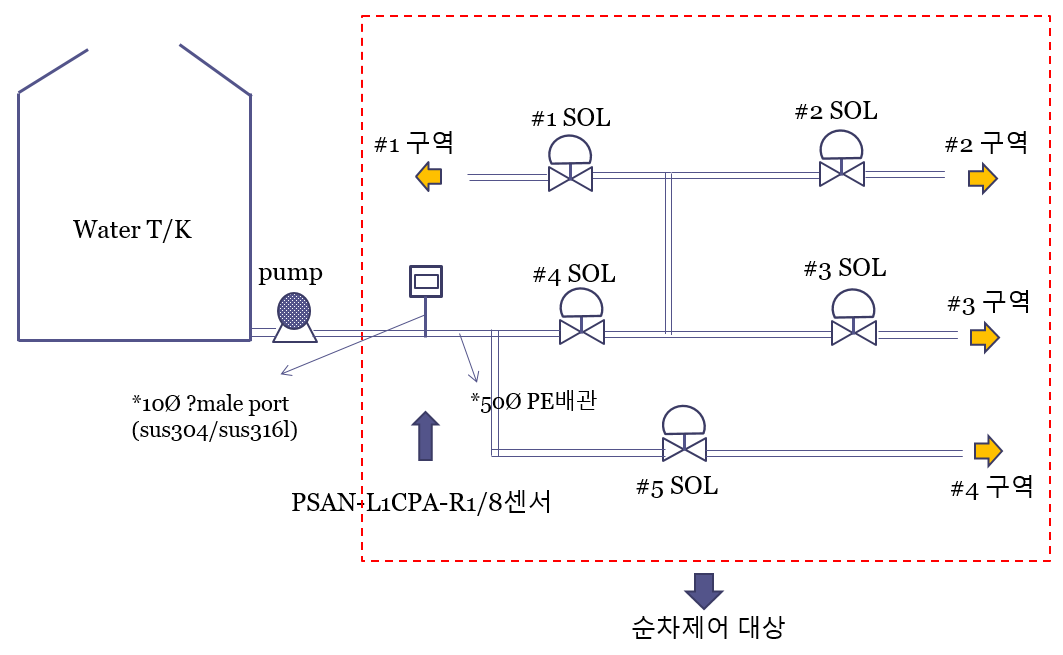
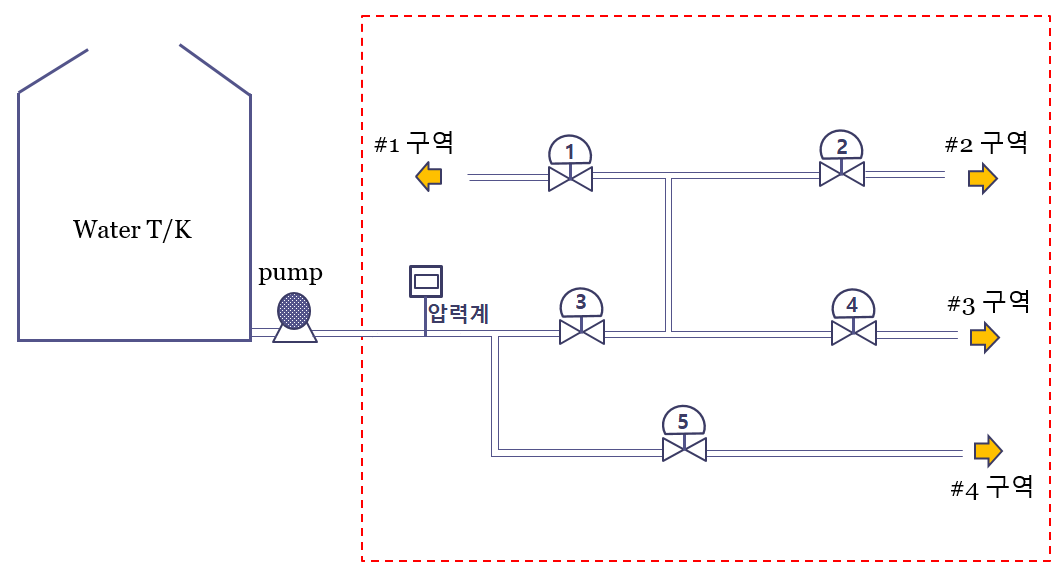
fix: 배경 그림 파일 변경
1. 배경 그림파일 변경
2. 창 가운데로 오게 수정

diff --git a/src/main.py b/src/main.py
@@ -3,7 +3,7 @@ import datetime
 import threading
 import copy
 from functools import partial
-from PyQt5.QtWidgets import QApplication, QMainWindow, QPushButton, QLabel,QSpinBox, QComboBox, QStackedWidget, QVBoxLayout, QHBoxLayout, QWidget, QScrollArea, QMessageBox
+from PyQt5.QtWidgets import QApplication, QMainWindow, QPushButton, QLabel,QSpinBox, QComboBox, QStackedWidget, QVBoxLayout, QHBoxLayout, QWidget, QScrollArea, QMessageBox, QDesktopWidget
 from PyQt5.QtGui import *
 from PyQt5.QtCore import Qt, QObject, pyqtSlot, pyqtSignal, QThread
 from PyQt5 import QtCore
@@ -111,6 +111,12 @@ class MainWindow(QMainWindow):
         
         Log.d(self.TAG, ">> ".format(self.taskQueue))
 
+    def moveToCenter(self):
+        qr = self.frameGeometry()
+        cp = QDesktopWidget().availableGeometry().center()
+        qr.moveCenter(cp)
+        self.move(qr.topLeft())
+
     # UI 초기화
     def initUI(self):
         """UI 초기화
@@ -167,7 +173,7 @@ class MainWindow(QMainWindow):
         # 배경
         self.lblBg = QLabel("", self.autoPage)
         self.lblBg.move(0, 15)
-        self.lblBg.resize(600, 400)
+        self.lblBg.resize(600, 350)
         self.pixmap = QPixmap()
         self.pixmap.load(self.oImg["bg"])
         self.pixmapVar = self.pixmap.scaledToWidth(600)
@@ -190,7 +196,7 @@ class MainWindow(QMainWindow):
             {"no":7, "o":None, "title":"7", "x":495, "y":215, "w":45,"h":5},
             {"no":8, "o":None, "title":"8", "x":277, "y":220, "w":5,"h":68},
             {"no":9, "o":None, "title":"9", "x":277, "y":283, "w":75,"h":5},
-            {"no":10, "o":None, "title":"10", "x":400, "y":285, "w":145,"h":5}
+            {"no":10, "o":None, "title":"10", "x":400, "y":283, "w":145,"h":5}
         ]
         
         for lblLine in self.lineList:
@@ -234,11 +240,11 @@ class MainWindow(QMainWindow):
 
         # 활성화/비활성화 버튼
         self.btnEnableList = [
-            {"no":1, "o":None, "title":"비활성화", "isEnable":False, "x":25, "y":420, "w":75,"h":20},
-            {"no":2, "o":None, "title":"비활성화", "isEnable":False, "x":125, "y":420, "w":75,"h":20},
-            {"no":3, "o":None, "title":"비활성화", "isEnable":False, "x":225, "y":420, "w":75,"h":20},
-            {"no":4, "o":None, "title":"비활성화", "isEnable":False, "x":325, "y":420, "w":75,"h":20},
-            {"no":5, "o":None, "title":"비활성화", "isEnable":False, "x":425, "y":420, "w":75,"h":20}
+            {"no":1, "o":None, "title":"비활성화", "isEnable":False, "x":25, "y":360, "w":75,"h":20},
+            {"no":2, "o":None, "title":"비활성화", "isEnable":False, "x":125, "y":360, "w":75,"h":20},
+            {"no":3, "o":None, "title":"비활성화", "isEnable":False, "x":225, "y":360, "w":75,"h":20},
+            {"no":4, "o":None, "title":"비활성화", "isEnable":False, "x":325, "y":360, "w":75,"h":20},
+            {"no":5, "o":None, "title":"비활성화", "isEnable":False, "x":425, "y":360, "w":75,"h":20}
         ]
 
         for btn in self.btnEnableList:
@@ -252,11 +258,11 @@ class MainWindow(QMainWindow):
 
         # 콤보박스 - 밸브선택
         self.cbList = [
-            {"no":1, "o":None, "title":"1", "x":25, "y":450, "w":75,"h":20},
-            {"no":2, "o":None, "title":"2", "x":125, "y":450, "w":75,"h":20},
-            {"no":3, "o":None, "title":"3", "x":225, "y":450, "w":75,"h":20},
-            {"no":4, "o":None, "title":"4", "x":325, "y":450, "w":75,"h":20},
-            {"no":5, "o":None, "title":"5", "x":425, "y":450, "w":75,"h":20}
+            {"no":1, "o":None, "title":"1", "x":25, "y":390, "w":75,"h":20},
+            {"no":2, "o":None, "title":"2", "x":125, "y":390, "w":75,"h":20},
+            {"no":3, "o":None, "title":"3", "x":225, "y":390, "w":75,"h":20},
+            {"no":4, "o":None, "title":"4", "x":325, "y":390, "w":75,"h":20},
+            {"no":5, "o":None, "title":"5", "x":425, "y":390, "w":75,"h":20}
         ]
         
         for cb in self.cbList:
@@ -272,11 +278,11 @@ class MainWindow(QMainWindow):
         
         # 밸브 초 값 스핀박스
         self.spboxList = [
-            {"no": 1, "o":None, "title":"1", "x":25, "y":475, "w":75,"h":20, "isHidden":True},
-            {"no": 2, "o":None, "title":"2", "x":125, "y":475, "w":75,"h":20, "isHidden":False},
-            {"no": 3, "o":None, "title":"3", "x":225, "y":475, "w":75,"h":20, "isHidden":False},
-            {"no": 4, "o":None, "title":"4", "x":325, "y":475, "w":75,"h":20, "isHidden":False},
-            {"no": 5, "o":None, "title":"5", "x":425, "y":475, "w":75,"h":20, "isHidden":False}
+            {"no": 1, "o":None, "title":"1", "x":25, "y":420, "w":75,"h":20, "isHidden":True},
+            {"no": 2, "o":None, "title":"2", "x":125, "y":420, "w":75,"h":20, "isHidden":False},
+            {"no": 3, "o":None, "title":"3", "x":225, "y":420, "w":75,"h":20, "isHidden":False},
+            {"no": 4, "o":None, "title":"4", "x":325, "y":420, "w":75,"h":20, "isHidden":False},
+            {"no": 5, "o":None, "title":"5", "x":425, "y":420, "w":75,"h":20, "isHidden":False}
         ]
         
         for spbox in self.spboxList:
@@ -291,11 +297,11 @@ class MainWindow(QMainWindow):
 
         # 밸브 초 라벨
         self.timeLblList = [
-            {"no": 1, "o":None, "title":"초", "x":100, "y":475, "w":20,"h":20, "isHidden":True},
-            {"no": 2, "o":None, "title":"초", "x":200, "y":475, "w":20,"h":20, "isHidden":False},
-            {"no": 3, "o":None, "title":"초", "x":300, "y":475, "w":20,"h":20, "isHidden":False},
-            {"no": 4, "o":None, "title":"초", "x":400, "y":475, "w":20,"h":20, "isHidden":False},
-            {"no": 5, "o":None, "title":"초", "x":500, "y":475, "w":20,"h":2, "isHidden":False}
+            {"no": 1, "o":None, "title":"초", "x":100, "y":420, "w":20,"h":20, "isHidden":True},
+            {"no": 2, "o":None, "title":"초", "x":200, "y":420, "w":20,"h":20, "isHidden":False},
+            {"no": 3, "o":None, "title":"초", "x":300, "y":420, "w":20,"h":20, "isHidden":False},
+            {"no": 4, "o":None, "title":"초", "x":400, "y":420, "w":20,"h":20, "isHidden":False},
+            {"no": 5, "o":None, "title":"초", "x":500, "y":420, "w":20,"h":2, "isHidden":False}
         ]
         
         for lbl in self.timeLblList:
@@ -313,7 +319,7 @@ class MainWindow(QMainWindow):
         # 배경
         self.lblBgManual = QLabel("", self.manualPage)
         self.lblBgManual.move(0, 15)
-        self.lblBgManual.resize(600, 400)
+        self.lblBgManual.resize(600, 350)
         self.pixmapManual = QPixmap()
         self.pixmapManual.load(self.oImg["bg"])
         self.pixmapVarManual = self.pixmapManual.scaledToWidth(600)
@@ -336,7 +342,7 @@ class MainWindow(QMainWindow):
             {"no":7, "o":None, "title":"7", "x":495, "y":215, "w":45,"h":5},
             {"no":8, "o":None, "title":"8", "x":277, "y":220, "w":5,"h":68},
             {"no":9, "o":None, "title":"9", "x":277, "y":283, "w":75,"h":5},
-            {"no":10, "o":None, "title":"10", "x":400, "y":285, "w":145,"h":5}
+            {"no":10, "o":None, "title":"10", "x":400, "y":283, "w":145,"h":5}
         ]
         
         for lblLine in self.manualLineList:
@@ -368,7 +374,6 @@ class MainWindow(QMainWindow):
             {"no":4, "o":None, "title":"4", "isOpen":False, "x":290, "y":167, "w":51,"h":60, "img":self.oImg["valve_off"], "lineList":[2, 4, 6]},
             {"no":5, "o":None, "title":"5", "isOpen":False, "x":350, "y":255, "w":51,"h":60, "img":self.oImg["valve_off"], "lineList":[10]},
             {"no":6, "o":None, "title":"M", "isOpen":False, "x":140, "y":165, "w":51,"h":60, "img":self.oImg["valve_off"], "lineList":[5, 8, 9]},
-            {"no":7, "o":None, "title":"P", "isOpen":False, "x":210, "y":165, "w":60,"h":60, "img":self.oImg["pump_off"], "lineList":[]}
         ]
         
         for btn in self.manualBtnList:
@@ -838,11 +843,14 @@ def getNow():
     formattedTime = now.strftime("%Y-%m-%d %H:%M:%S")
     return formattedTime
 
+
+
 if __name__ == "__main__":
     app = QApplication(sys.argv)
     win = MainWindow()
     win.setWindowTitle("Solenoid Valve v0.1 test")
-    win.setGeometry(300, 300, 625, 575)
+    win.resize(625, 520)
+    win.moveToCenter()
     win.show()
 
     sys.exit(app.exec_())
